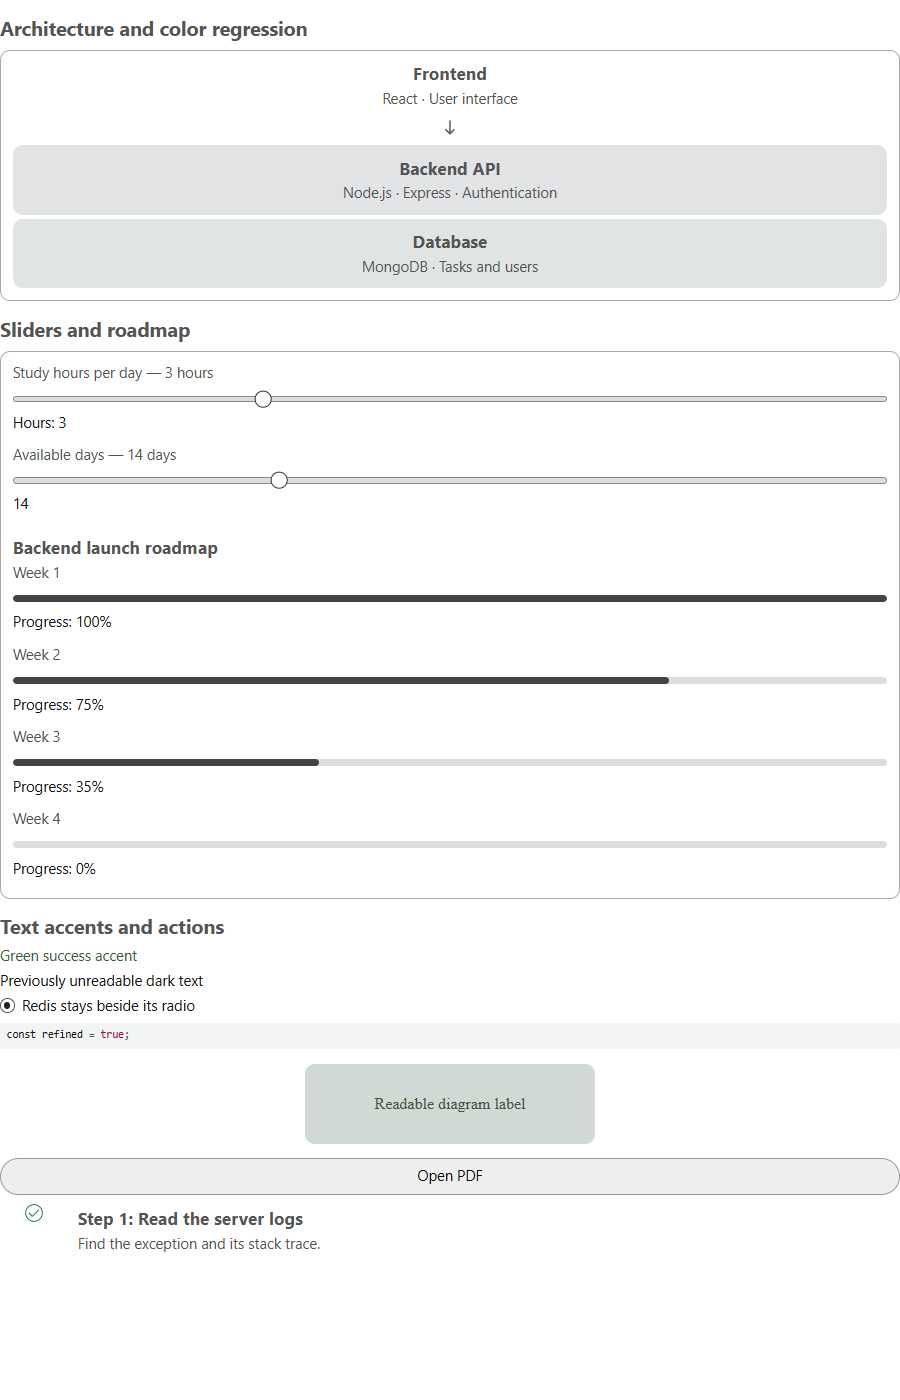
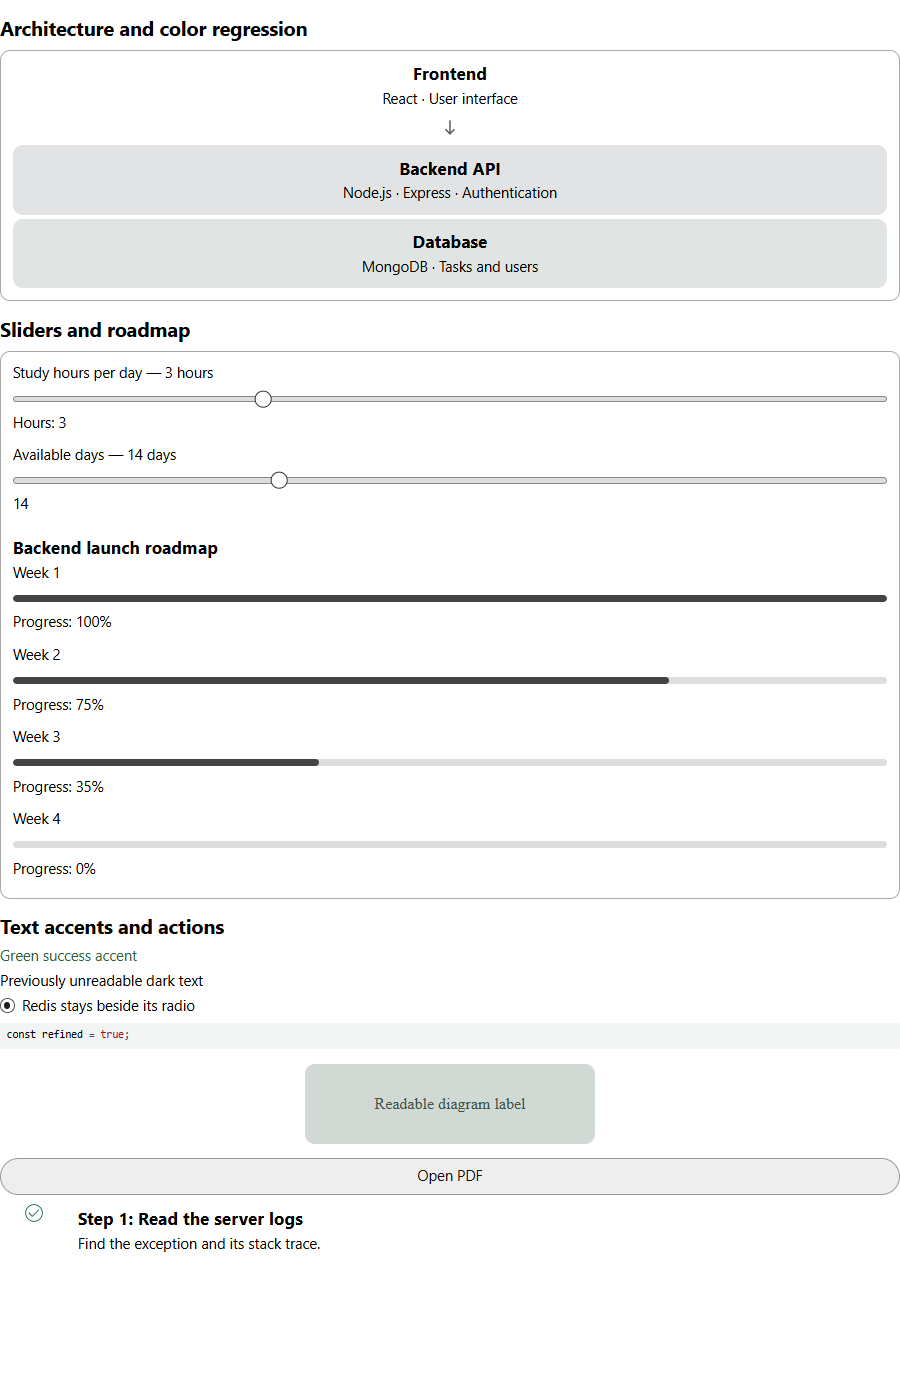
Dark Text

diff --git a/src/renderer/sourceColors.ts b/src/renderer/sourceColors.ts
@@ -3,12 +3,12 @@ export function isSourceColor(value: string | undefined): value is string {
   return !!value && /^(?:rgba?|hsla?|oklch|oklab|lch|lab|color)\([a-z0-9.,%\s/+\-]+\)$/i.test(value);
 }
 
-export function readableSourceColor(value: string, document: Document, surface = 'rgb(24,24,27)'): string {
+export function readableSourceColor(value: string, document: Document, surface = 'rgb(24,24,27)', blackNeutralText = false): string {
   // Resolve modern color spaces in the browser before checking contrast.
   // Cache per document: a long conversation repeats the same small palette.
   let cache = palettes.get(document);
   if (!cache) { cache = new Map(); palettes.set(document, cache); }
-  const key = value + ':' + surface;
+  const key = value + ':' + surface + ':' + blackNeutralText;
   const cached = cache.get(key);
   if (cached) return cached;
   let result = value;
@@ -17,6 +17,12 @@ export function readableSourceColor(value: string, document: Document, surface =
     if (context) {
       context.fillStyle = value; context.fillRect(0, 0, 1, 1);
       const [r, g, b, a] = context.getImageData(0, 0, 1, 1).data;
+      // Light-mode body copy should be black, not the minimum-contrast gray.
+      // Inspect source channels before compositing so translucent accents retain hue.
+      if (blackNeutralText && Math.max(r, g, b) - Math.min(r, g, b) <= 12) {
+        cache.set(key, 'rgb(0, 0, 0)');
+        return 'rgb(0, 0, 0)';
+      }
       context.clearRect(0,0,1,1); context.fillStyle = surface; context.fillRect(0,0,1,1);
       const bg = context.getImageData(0,0,1,1).data;
       const background = [bg[0],bg[1],bg[2]].map((channel,i)=>channel*bg[3]/255 + [24,24,27][i]*(1-bg[3]/255));

diff --git a/src/renderer/printStyles.ts b/src/renderer/printStyles.ts
@@ -46,6 +46,7 @@ a { color: inherit; text-decoration: underline; text-underline-offset: 1.5px; ov
 .export-document { width: min(900px, calc(100% - 28px)); margin: 18px auto 54px; padding: 28px 34px; background: #fff; color: #171717; box-shadow: 0 8px 32px rgba(0,0,0,.07); font-family: var(--pdf-body-font); font-size: var(--pdf-body-size); font-weight: var(--pdf-body-weight); line-height: var(--pdf-line-height); }
 .export-document.theme-dark { background: #18181b; color: #f4f4f5; --pdf-rule: #3f3f46; --pdf-muted: #a1a1aa; --pdf-soft: #27272a; --pdf-code-bg: #202024; }
 .theme-dark .source-color { color: var(--source-color, inherit); }
+.export-document.theme-light { color: #000; }
 .theme-light .source-color { color: var(--source-color-light, inherit); }
 .theme-dark .visual-card { border-color: #52525b; }
 .theme-dark .visual-radio, .theme-dark .visual-checkbox { border-color: #d4d4d8; }

diff --git a/src/renderer/inlineRenderer.ts b/src/renderer/inlineRenderer.ts
@@ -8,7 +8,7 @@ function renderText(document: Document, node: Extract<InlineNode, { type: "text"
   if (isSourceColor(node.sourceColor)) {
     const span = el(document, 'span', 'source-color');
     span.style.setProperty('--source-color', readableSourceColor(node.sourceColor, document, node.sourceSurface));
-    span.style.setProperty('--source-color-light', readableSourceColor(node.sourceColor, document, 'rgb(255,255,255)'));
+    span.style.setProperty('--source-color-light', readableSourceColor(node.sourceColor, document, 'rgb(255,255,255)', true));
     span.appendChild(current); current = span;
   }
   if (node.strikethrough) {
